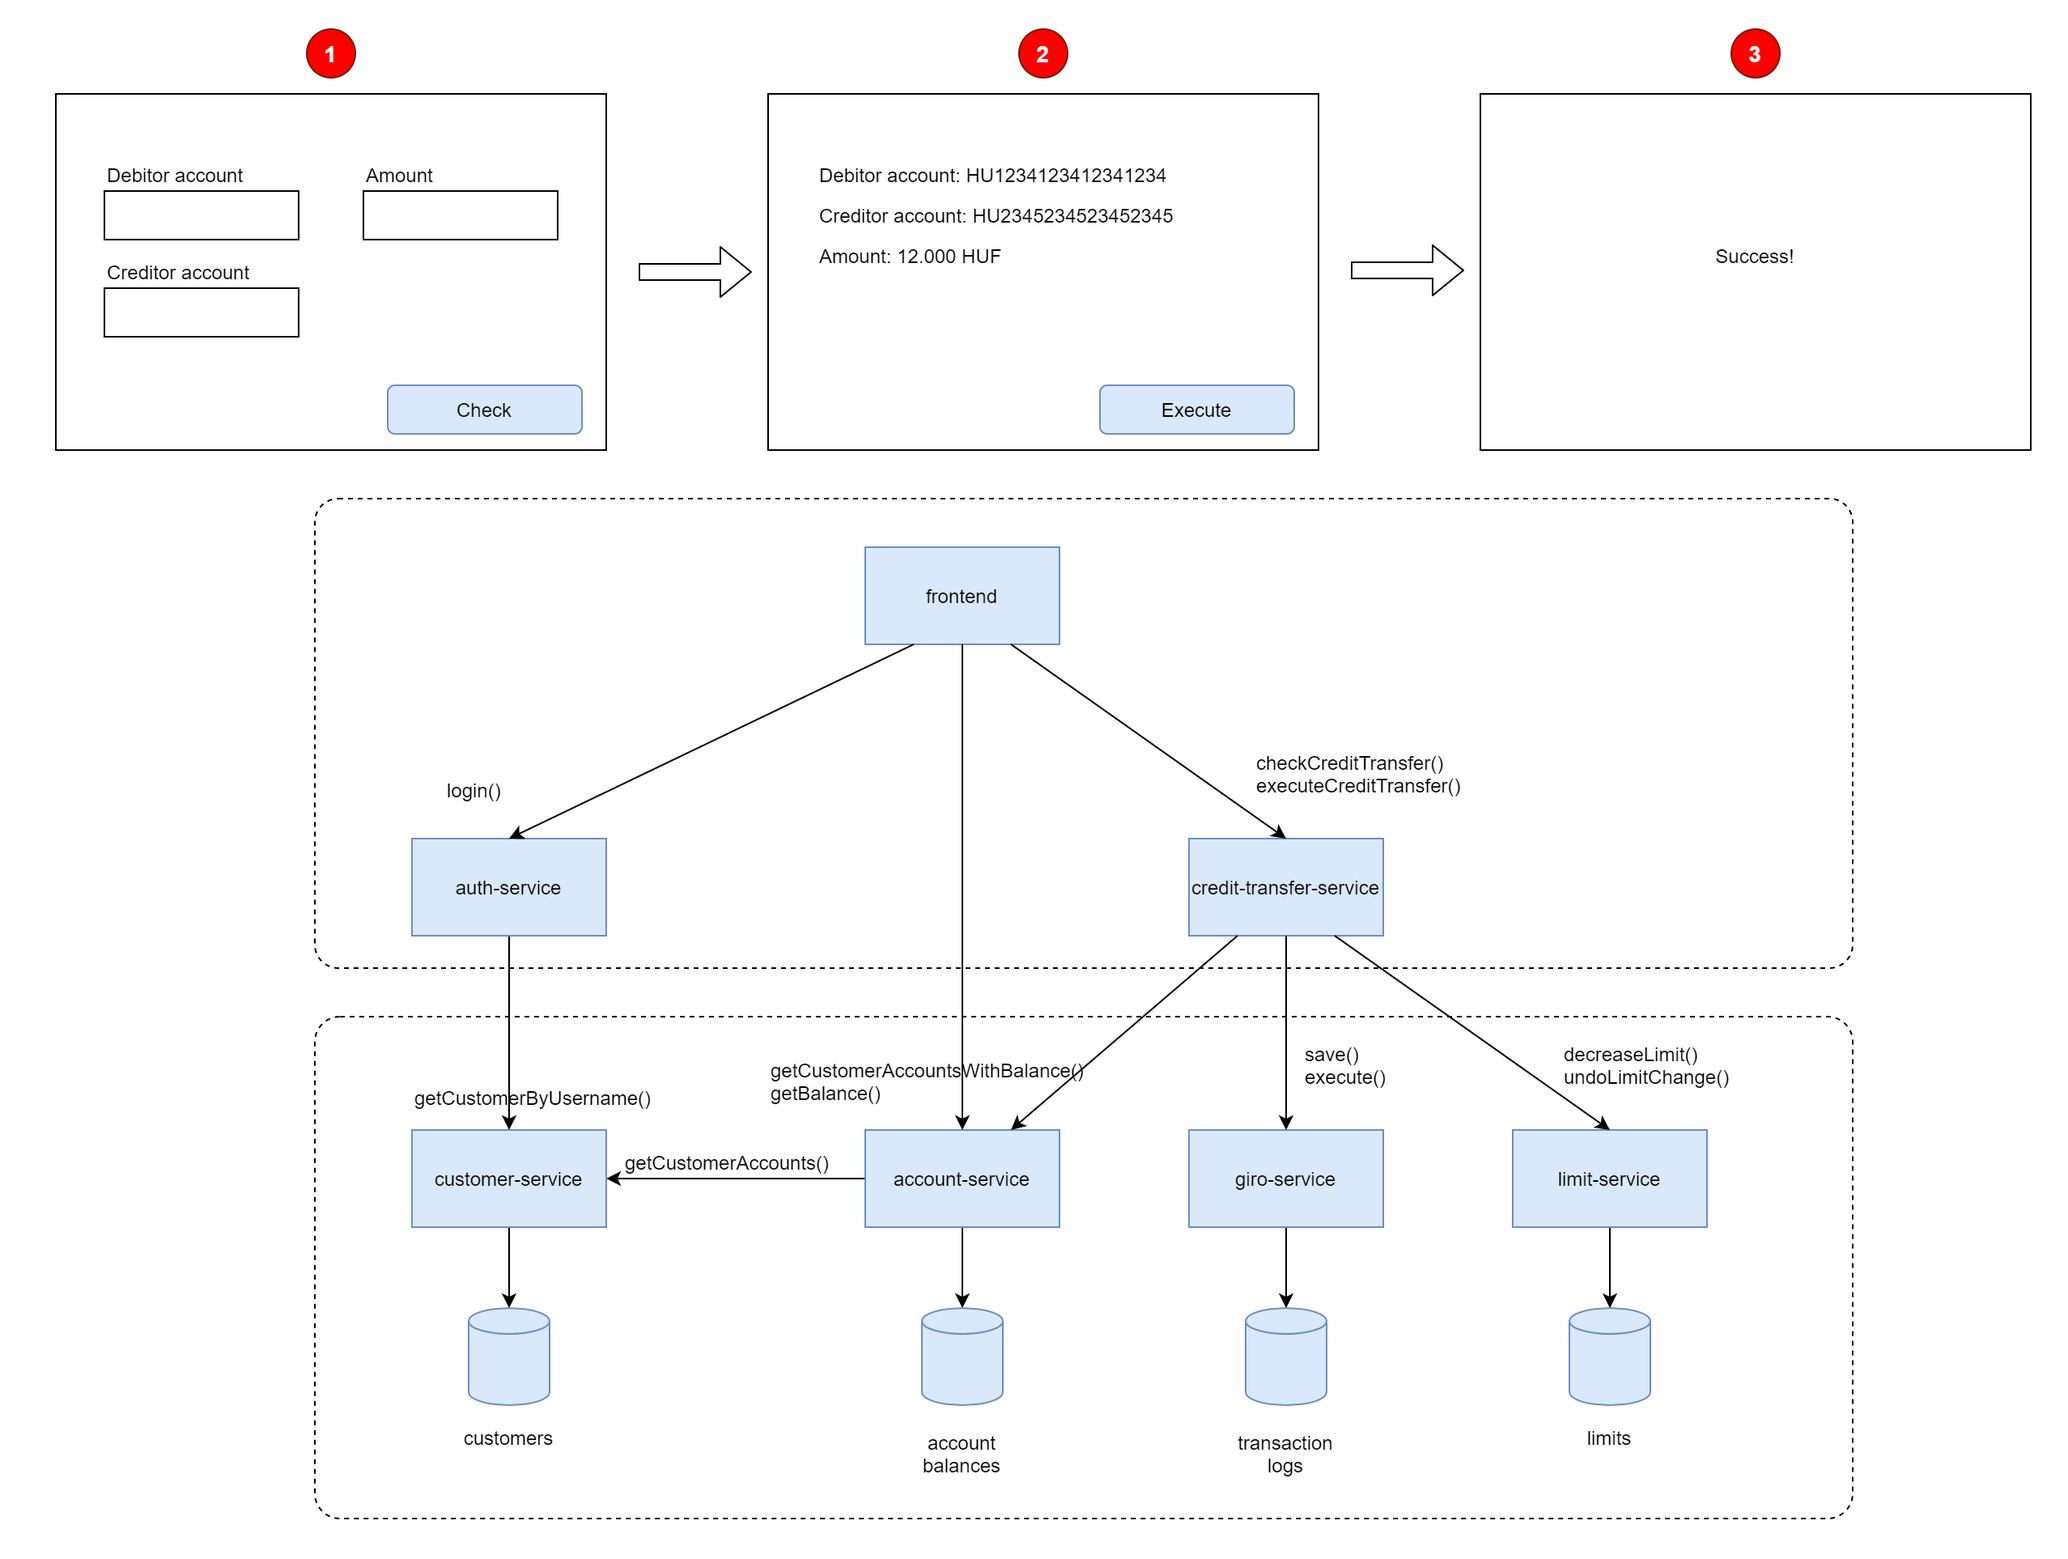
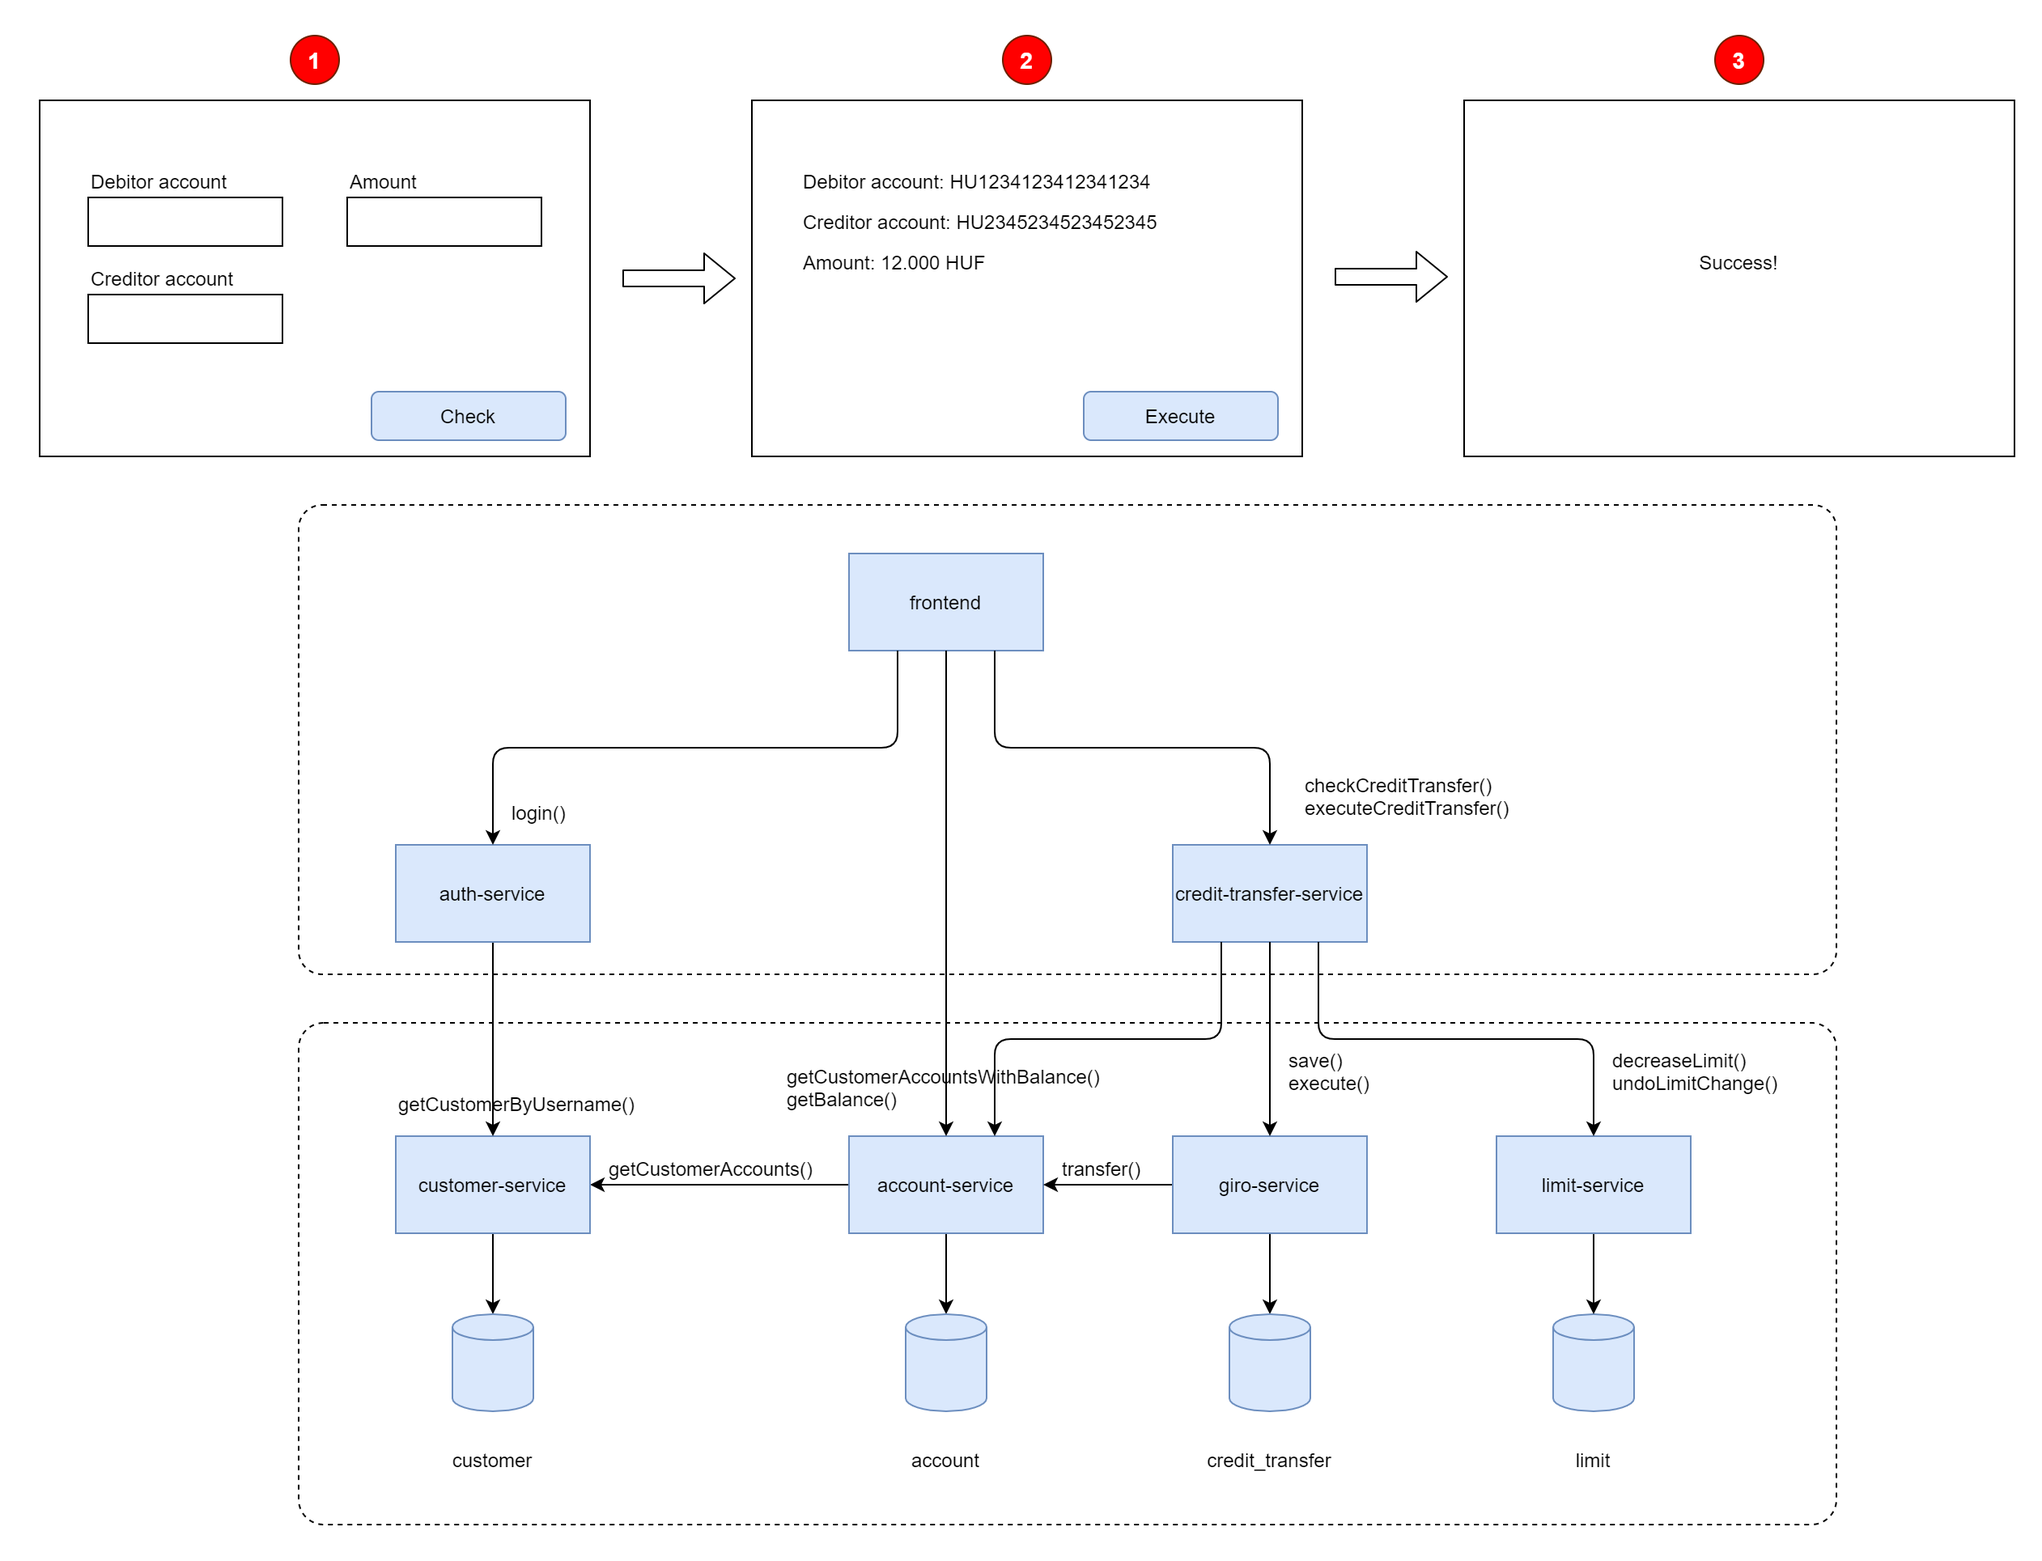
LimitService

diff --git a/micro-orchestrator-demo/src/main/java/hu/perit/microorchestrator/services/impl/customersetvice/CustomerServiceImpl.java b/micro-orchestrator-demo/src/main/java/hu/perit/microorchestrator/services/impl/customersetvice/CustomerServiceImpl.java
@@ -3,47 +3,61 @@ package hu.perit.microorchestrator.services.impl.customersetvice;
 import hu.perit.microorchestrator.config.Constants;
 import hu.perit.microorchestrator.services.api.CustomerService;
 import hu.perit.microorchestrator.services.model.CustomerDto;
+import hu.perit.spvitamin.core.typehelpers.LongUtils;
 import hu.perit.spvitamin.spring.exception.ResourceNotFoundException;
 import lombok.RequiredArgsConstructor;
+import org.apache.commons.lang3.StringUtils;
 import org.springframework.stereotype.Service;
 
 import java.text.MessageFormat;
+import java.util.ArrayList;
 import java.util.Collection;
-import java.util.HashMap;
 import java.util.List;
-import java.util.Map;
 
 @Service
 @RequiredArgsConstructor
 public class CustomerServiceImpl implements CustomerService
 {
-    private static final Map<String, CustomerDto> CUSTOMER_MAP = new HashMap<>();
+    private static final List<CustomerDto> CUSTOMERS = new ArrayList<>();
 
     static
     {
-        CUSTOMER_MAP.put("bank", new CustomerDto("bank", "Bank", Constants.BANK_USER_ID, List.of(Constants.BANK_IBAN)));
-        CUSTOMER_MAP.put("peter", new CustomerDto("peter", "Peter", 10002L, List.of(Constants.PETER_IBAN_1, Constants.PETER_IBAN_2)));
-        CUSTOMER_MAP.put("alice", new CustomerDto("alice", "Alice", 10003L, List.of("HU1234000010003001")));
-        CUSTOMER_MAP.put("john", new CustomerDto("john", "John", 10004L, List.of("HU1234000010004001")));
-        CUSTOMER_MAP.put("csaba", new CustomerDto("csaba", "Csaba", 10005L, List.of("HU1234000010005001")));
-        CUSTOMER_MAP.put("szabolcs", new CustomerDto("szabolcs", "Szabolcs", 10006L, List.of("HU1234000010006001")));
+        CUSTOMERS.add(new CustomerDto("bank", "Bank", Constants.BANK_USER_ID, List.of(Constants.BANK_IBAN)));
+        CUSTOMERS.add(new CustomerDto("peter", "Peter", 10002L, List.of(Constants.PETER_IBAN_1, Constants.PETER_IBAN_2)));
+        CUSTOMERS.add(new CustomerDto("alice", "Alice", 10003L, List.of("HU1234000010003001")));
+        CUSTOMERS.add(new CustomerDto("john", "John", 10004L, List.of("HU1234000010004001")));
+        CUSTOMERS.add(new CustomerDto("csaba", "Csaba", 10005L, List.of("HU1234000010005001")));
+        CUSTOMERS.add(new CustomerDto("szabolcs", "Szabolcs", 10006L, List.of("HU1234000010006001")));
     }
 
 
     @Override
     public CustomerDto getCustomerByUsername(String username) throws ResourceNotFoundException
     {
-        if (!CUSTOMER_MAP.containsKey(username))
+        CustomerDto customerDto = CUSTOMERS.stream().filter(i -> StringUtils.equals(i.getUsername(), username)).findFirst().orElse(null);
+        if (customerDto == null)
         {
             throw new ResourceNotFoundException(MessageFormat.format("Customer not foundb by name {0}", username));
         }
 
-        return CUSTOMER_MAP.get(username);
+        return customerDto;
     }
 
     @Override
-    public Collection<String> getUsernames()
+    public CustomerDto getCustomerById(Long userId) throws ResourceNotFoundException
     {
-        return CUSTOMER_MAP.keySet();
+        CustomerDto customerDto = CUSTOMERS.stream().filter(i -> LongUtils.equals(i.getId(), userId)).findFirst().orElse(null);
+        if (customerDto == null)
+        {
+            throw new ResourceNotFoundException(MessageFormat.format("Customer not foundb by id {0}", userId));
+        }
+
+        return customerDto;
+    }
+
+    @Override
+    public List<CustomerDto> getCustomers()
+    {
+        return CUSTOMERS;
     }
 }

diff --git a/micro-orchestrator-demo/src/integtest/java/hu/perit/microorchestrator/services/impl/accountservice/AccountServiceImplTest.java b/micro-orchestrator-demo/src/integtest/java/hu/perit/microorchestrator/services/impl/accountservice/AccountServiceImplTest.java
@@ -1,21 +1,16 @@
 package hu.perit.microorchestrator.services.impl.accountservice;
 
+import hu.perit.microorchestrator.config.Constants;
 import hu.perit.microorchestrator.services.api.AccountService;
-import hu.perit.microorchestrator.services.api.CustomerService;
 import hu.perit.microorchestrator.services.model.Accounts;
-import hu.perit.microorchestrator.services.model.CustomerDto;
 import hu.perit.spvitamin.spring.exception.ResourceNotFoundException;
-import hu.perit.spvitamin.spring.security.AuthenticatedUser;
-import hu.perit.spvitamin.spring.security.auth.AuthorizationService;
 import lombok.extern.slf4j.Slf4j;
-import org.junit.jupiter.api.BeforeEach;
 import org.junit.jupiter.api.Test;
 import org.springframework.beans.factory.annotation.Autowired;
 import org.springframework.boot.test.context.SpringBootTest;
 import org.springframework.test.context.ActiveProfiles;
 
 import java.math.BigDecimal;
-import java.util.Collections;
 
 import static org.assertj.core.api.Assertions.assertThat;
 import static org.assertj.core.api.Assertions.assertThatThrownBy;
@@ -28,30 +23,30 @@ public class AccountServiceImplTest
     @Autowired
     private AccountService accountService;
 
-    @Autowired
-    private CustomerService customerService;
+//    @Autowired
+//    private CustomerService customerService;
+//
+//    @Autowired
+//    private AuthorizationService authorizationService;
 
-    @Autowired
-    private AuthorizationService authorizationService;
-
-    @BeforeEach
-    void setup() throws ResourceNotFoundException
-    {
-        CustomerDto customerDto = this.customerService.getCustomerByUsername("peter");
-
-        AuthenticatedUser authenticatedUser = AuthenticatedUser.builder()
-                .username(customerDto.getUsername())
-                .anonymous(false)
-                .authorities(Collections.emptyList())
-                .userId(customerDto.getId())
-                .build();
-        this.authorizationService.setAuthenticatedUser(authenticatedUser);
-    }
+//    @BeforeEach
+//    void setup() throws ResourceNotFoundException
+//    {
+//        CustomerDto customerDto = this.customerService.getCustomerByUsername("peter");
+//
+//        AuthenticatedUser authenticatedUser = AuthenticatedUser.builder()
+//                .username(customerDto.getUsername())
+//                .anonymous(false)
+//                .authorities(Collections.emptyList())
+//                .userId(customerDto.getId())
+//                .build();
+//        this.authorizationService.setAuthenticatedUser(authenticatedUser);
+//    }
 
     @Test
     void testGetCustomerAccountsWithBalance() throws ResourceNotFoundException
     {
-        Accounts accountsWithBalance = this.accountService.getCustomerAccountsWithBalance();
+        Accounts accountsWithBalance = this.accountService.getCustomerAccountsWithBalance(Constants.BANK_USER_ID);
         log.debug(accountsWithBalance.toString());
         assertThat(accountsWithBalance.getAccounts()).isNotEmpty();
     }

diff --git a/micro-orchestrator-demo/src/main/java/hu/perit/microorchestrator/services/impl/accountservice/AccountServiceImpl.java b/micro-orchestrator-demo/src/main/java/hu/perit/microorchestrator/services/impl/accountservice/AccountServiceImpl.java
@@ -11,12 +11,8 @@ import hu.perit.microorchestrator.services.model.Accounts;
 import hu.perit.microorchestrator.services.model.CreditTransferRequest;
 import hu.perit.microorchestrator.services.model.CustomerDto;
 import hu.perit.microorchestrator.services.model.LockMode;
-import hu.perit.spvitamin.core.StackTracer;
 import hu.perit.spvitamin.core.typehelpers.LongUtils;
-import hu.perit.spvitamin.spring.config.SpringContext;
 import hu.perit.spvitamin.spring.exception.ResourceNotFoundException;
-import hu.perit.spvitamin.spring.security.AuthenticatedUser;
-import hu.perit.spvitamin.spring.security.auth.AuthorizationService;
 import jakarta.annotation.PostConstruct;
 import jakarta.transaction.Transactional;
 import lombok.RequiredArgsConstructor;
@@ -32,7 +28,6 @@ import java.util.Optional;
 @Slf4j
 public class AccountServiceImpl implements AccountService
 {
-    private final AuthorizationService authorizationService;
     private final CustomerService customerService;
     private final AccountRepo accountRepo;
     private final AccountMapper accountMapper;
@@ -41,25 +36,17 @@ public class AccountServiceImpl implements AccountService
     @PostConstruct
     void init()
     {
-        for (String username : this.customerService.getUsernames())
+        for (CustomerDto customerDto : this.customerService.getCustomers())
         {
-            try
-            {
-                initAccountsForCustomer(this.customerService.getCustomerByUsername(username));
-            }
-            catch (ResourceNotFoundException e)
-            {
-               log.error(StackTracer.toString(e));
-            }
+            initAccountsForCustomer(customerDto);
         }
     }
 
 
     @Override
-    public Accounts getCustomerAccountsWithBalance() throws ResourceNotFoundException
+    public Accounts getCustomerAccountsWithBalance(Long userId) throws ResourceNotFoundException
     {
-        AuthenticatedUser authenticatedUser = this.authorizationService.getAuthenticatedUser();
-        CustomerDto customerDto = this.customerService.getCustomerByUsername(authenticatedUser.getUsername());
+        CustomerDto customerDto = this.customerService.getCustomerById(userId);
         Accounts accounts = new Accounts();
         for (String iban : customerDto.getAccounts())
         {

diff --git a/micro-orchestrator-demo/src/main/java/hu/perit/microorchestrator/services/impl/limitservice/LimitServiceImpl.java b/micro-orchestrator-demo/src/main/java/hu/perit/microorchestrator/services/impl/limitservice/LimitServiceImpl.java
@@ -1,0 +1,41 @@
+package hu.perit.microorchestrator.services.impl.limitservice;
+
+import hu.perit.microorchestrator.services.api.LimitService;
+import org.springframework.stereotype.Service;
+
+import java.math.BigDecimal;
+import java.util.HashMap;
+import java.util.Map;
+
+@Service
+public class LimitServiceImpl implements LimitService
+{
+    private final Map<Long, BigDecimal> limits = new HashMap<>();
+
+    @Override
+    public boolean decreaseLimit(Long userId, BigDecimal amount)
+    {
+        this.limits.putIfAbsent(userId, new BigDecimal("1000"));
+        BigDecimal limit = this.limits.get(userId);
+        BigDecimal newLimit = limit.subtract(amount);
+        if (newLimit.compareTo(BigDecimal.ZERO) < 0)
+        {
+            return false;
+        }
+        this.limits.put(userId, newLimit);
+        return true;
+    }
+
+    @Override
+    public void increaseLimit(Long userId, BigDecimal amount)
+    {
+        if (!this.limits.containsKey(userId))
+        {
+            return;
+        }
+
+        BigDecimal limit = this.limits.get(userId);
+        BigDecimal newLimit = limit.add(amount);
+        this.limits.put(userId, newLimit);
+    }
+}

diff --git a/micro-orchestrator-demo/src/integtest/java/hu/perit/microorchestrator/services/impl/limitservice/LimitServiceImplTest.java b/micro-orchestrator-demo/src/integtest/java/hu/perit/microorchestrator/services/impl/limitservice/LimitServiceImplTest.java
@@ -1,0 +1,33 @@
+package hu.perit.microorchestrator.services.impl.limitservice;
+
+import hu.perit.microorchestrator.config.Constants;
+import hu.perit.microorchestrator.services.api.LimitService;
+import lombok.extern.slf4j.Slf4j;
+import org.assertj.core.api.Assertions;
+import org.junit.jupiter.api.Test;
+import org.springframework.beans.factory.annotation.Autowired;
+import org.springframework.boot.test.context.SpringBootTest;
+import org.springframework.test.context.ActiveProfiles;
+
+import java.math.BigDecimal;
+
+import static org.assertj.core.api.Assertions.assertThat;
+
+@ActiveProfiles({"default", "spvitamin-defaults"})
+@SpringBootTest(webEnvironment = SpringBootTest.WebEnvironment.DEFINED_PORT)
+@Slf4j
+public class LimitServiceImplTest
+{
+    @Autowired
+    private LimitService limitService;
+
+    @Test
+    void testDecreaseLimit()
+    {
+        boolean success = this.limitService.decreaseLimit(Constants.BANK_USER_ID, new BigDecimal("12"));
+        assertThat(success).isTrue();
+        success = this.limitService.decreaseLimit(Constants.BANK_USER_ID, new BigDecimal("1000"));
+        assertThat(success).isFalse();
+    }
+
+}

diff --git a/micro-orchestrator-demo/src/integtest/java/hu/perit/microorchestrator/services/impl/giroservice/GiroServiceImplTest.java b/micro-orchestrator-demo/src/integtest/java/hu/perit/microorchestrator/services/impl/giroservice/GiroServiceImplTest.java
@@ -3,11 +3,9 @@ package hu.perit.microorchestrator.services.impl.giroservice;
 import hu.perit.microorchestrator.config.Constants;
 import hu.perit.microorchestrator.exception.CreditTransferException;
 import hu.perit.microorchestrator.services.api.AccountService;
-import hu.perit.microorchestrator.services.api.CustomerService;
 import hu.perit.microorchestrator.services.api.GiroService;
 import hu.perit.microorchestrator.services.model.CreditTransferRequest;
 import hu.perit.spvitamin.spring.exception.ResourceNotFoundException;
-import hu.perit.spvitamin.spring.security.auth.AuthorizationService;
 import lombok.extern.slf4j.Slf4j;
 import org.assertj.core.api.Assertions;
 import org.junit.jupiter.api.Test;
@@ -23,13 +21,7 @@ import java.math.BigDecimal;
 public class GiroServiceImplTest
 {
     @Autowired
-    private CustomerService customerService;
-
-    @Autowired
     private AccountService accountService;
-
-    @Autowired
-    private AuthorizationService authorizationService;
 
     @Autowired
     private GiroService giroService;

diff --git a/micro-orchestrator-demo/src/main/java/hu/perit/microorchestrator/services/api/CustomerService.java b/micro-orchestrator-demo/src/main/java/hu/perit/microorchestrator/services/api/CustomerService.java
@@ -3,11 +3,13 @@ package hu.perit.microorchestrator.services.api;
 import hu.perit.microorchestrator.services.model.CustomerDto;
 import hu.perit.spvitamin.spring.exception.ResourceNotFoundException;
 
-import java.util.Collection;
+import java.util.List;
 
 public interface CustomerService
 {
     CustomerDto getCustomerByUsername(String username) throws ResourceNotFoundException;
 
-    Collection<String> getUsernames();
+    CustomerDto getCustomerById(Long userId) throws ResourceNotFoundException;
+
+    List<CustomerDto> getCustomers();
 }

diff --git a/micro-orchestrator-demo/src/main/java/hu/perit/microorchestrator/services/api/AccountService.java b/micro-orchestrator-demo/src/main/java/hu/perit/microorchestrator/services/api/AccountService.java
@@ -9,7 +9,7 @@ import java.math.BigDecimal;
 
 public interface AccountService
 {
-    Accounts getCustomerAccountsWithBalance() throws ResourceNotFoundException;
+    Accounts getCustomerAccountsWithBalance(Long userId) throws ResourceNotFoundException;
 
     BigDecimal getBalance(String iban) throws ResourceNotFoundException;
 

diff --git a/micro-orchestrator-demo/src/main/java/hu/perit/microorchestrator/services/api/LimitService.java b/micro-orchestrator-demo/src/main/java/hu/perit/microorchestrator/services/api/LimitService.java
@@ -1,0 +1,9 @@
+package hu.perit.microorchestrator.services.api;
+
+import java.math.BigDecimal;
+
+public interface LimitService
+{
+    boolean decreaseLimit(Long userId, BigDecimal amount);
+    void increaseLimit(Long userId, BigDecimal amount);
+}
